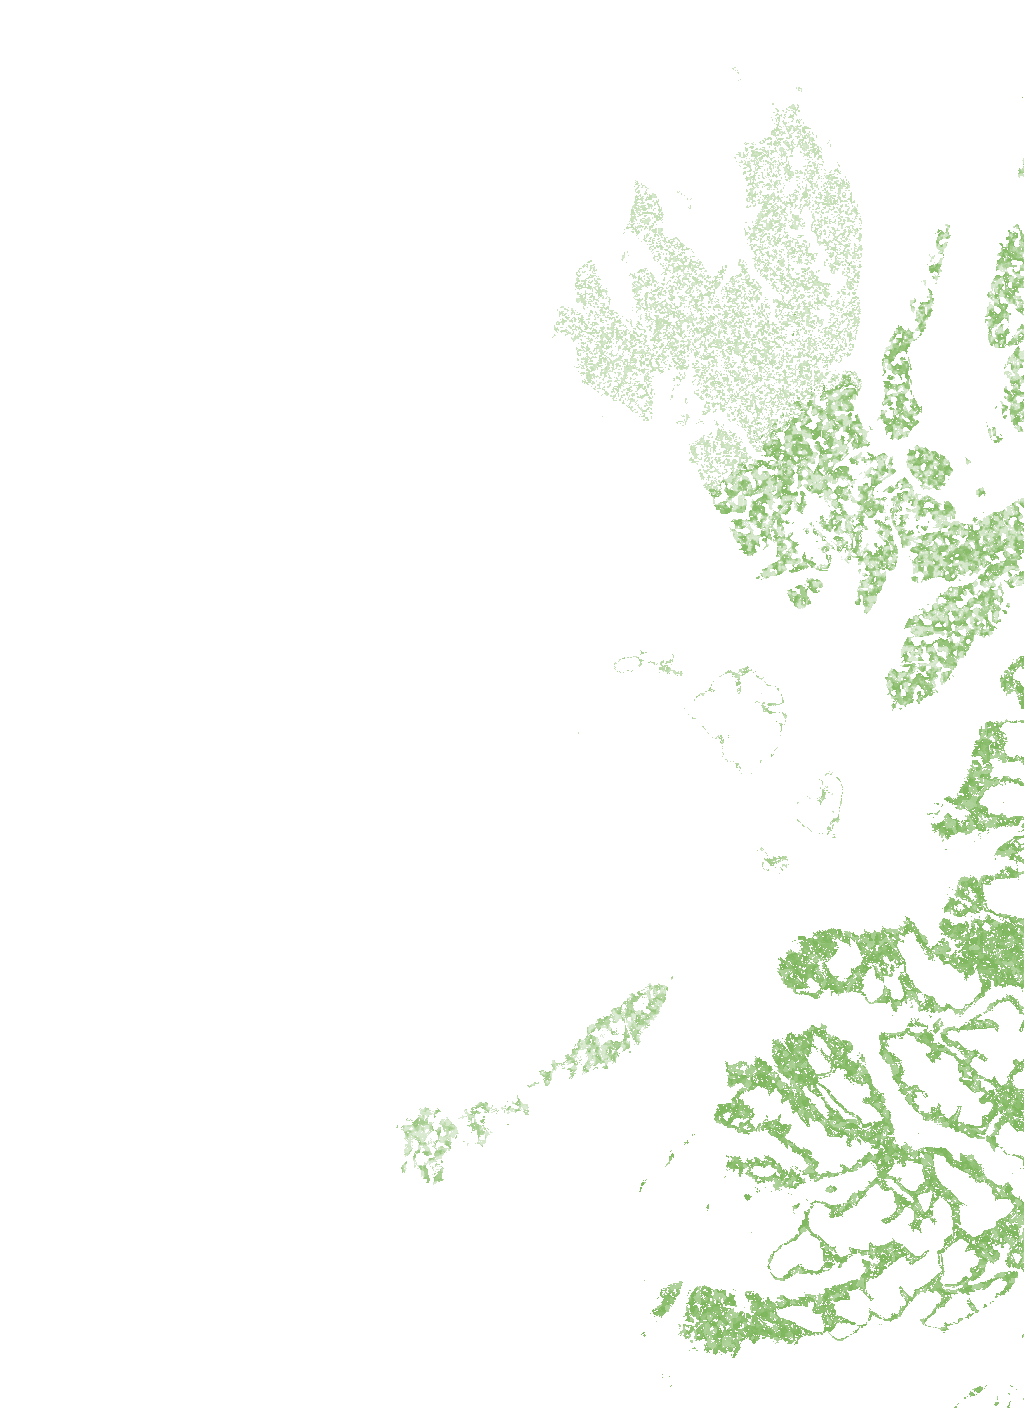
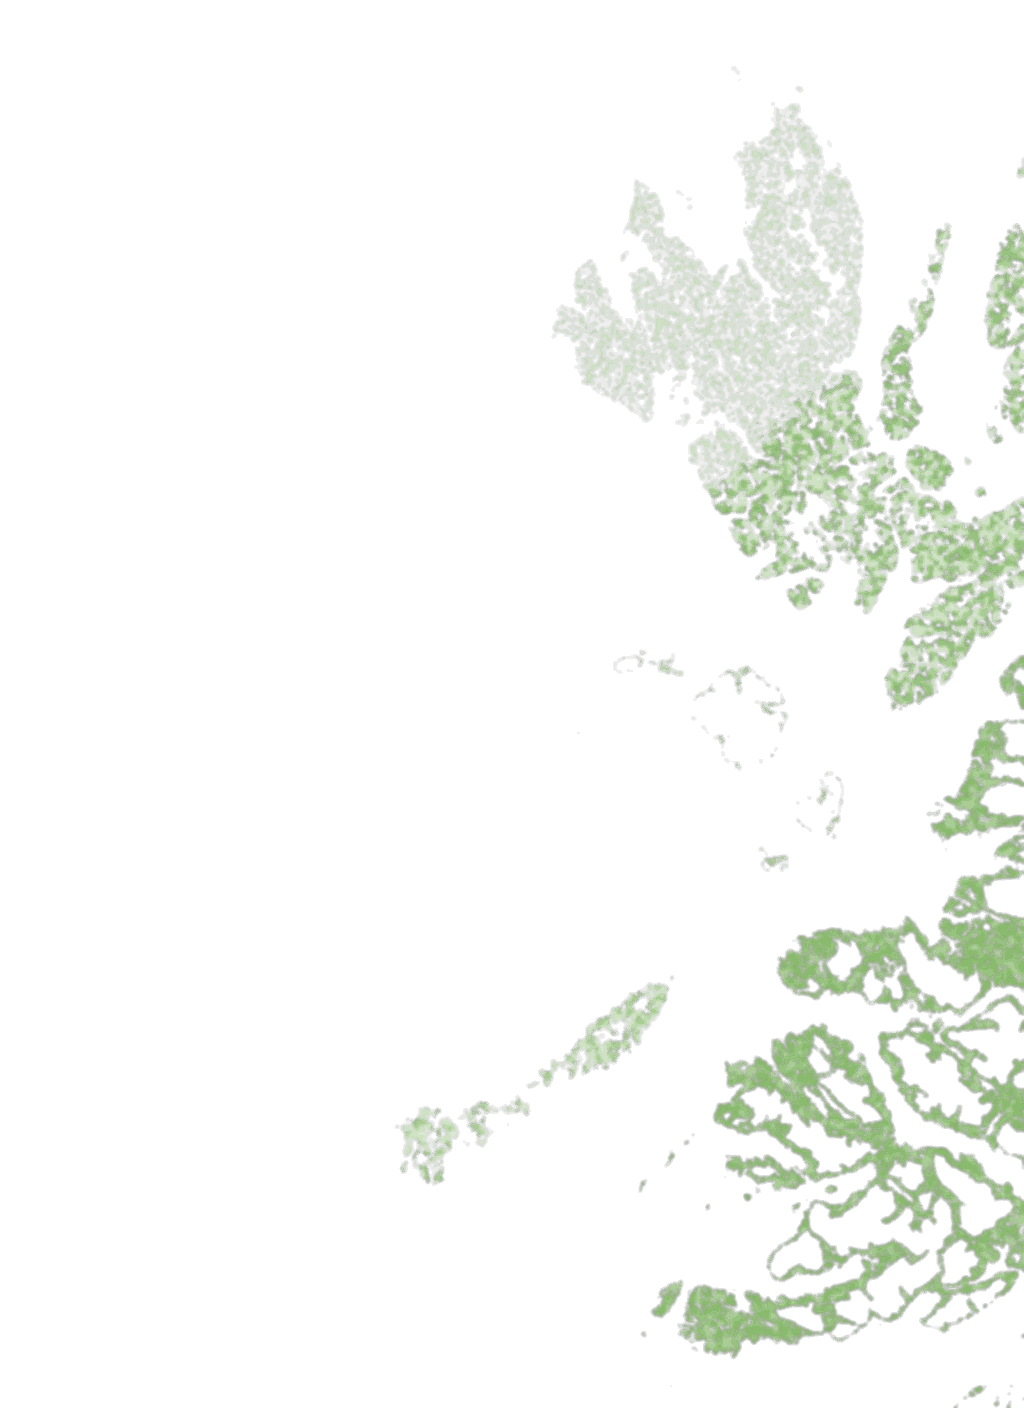
Fix maps and stale styling
- Version-stamp CSS/JS links so browsers never keep an old stylesheet
- Visible world border, smoothed ore/tree/crop layers (no hatching)
- Maps no longer hijack page scrolling; tap-to-explore on phones,
  Ctrl/Cmd+scroll to zoom, full-screen button
- Label spacing and phone layout fixes

diff --git a/assets/maps.js b/assets/maps.js
@@ -41,6 +41,7 @@
     ardcarran: ["coal", "lapis", "emerald", "potato"],
     hell: ["lava", "danger"]
   };
+  var NUDGE = { 6: [26, 14], 8: [-18, -14] };
   var LAND_NAMES = { outer: "Outer Isles", north: "Northlands", spider: "Spiderholme Isles", bread: "Breadbasket", rain: "Rainlands", hell: "The Burning Isle" };
 
   var metaPromise = fetch("maps/maps.json").then(function (r) { return r.json(); });
@@ -96,7 +97,8 @@
 
     meta.labels.forEach(function (lab) {
       var g = el("g", { class: "map-marker" }, svg);
-      var inner = el("g", {}, g);
+      var nd = NUDGE[lab.id] || [0, 0];
+      var inner = el("g", { transform: "translate(" + nd[0] + " " + nd[1] + ")" }, g);
       var name = lab.name;
       var landKey = lab.id === 14 ? "ardcarran" : lab.land;
       var t = el("text", { class: "map-label" + (lab.land === "hell" ? " hell" : ""), x: 0, y: 0, "text-anchor": "middle" }, inner);
@@ -121,8 +123,39 @@
     var ctl = h("div", "map-ctl", view);
     var zin = h("button", "", ctl, "+"); zin.setAttribute("aria-label", "Zoom in");
     var zout = h("button", "", ctl, "−"); zout.setAttribute("aria-label", "Zoom out");
-    var zfit = h("button", "", ctl, "⤢"); zfit.setAttribute("aria-label", "Fit map"); zfit.title = "Fit";
-    var coords = h("div", "map-coords", view, "Drag to pan · scroll or pinch to zoom");
+    var zfit = h("button", "", ctl, "◎"); zfit.setAttribute("aria-label", "Show whole map"); zfit.title = "Show whole map";
+    var zfull = h("button", "", ctl, "⛶"); zfull.setAttribute("aria-label", "Full screen"); zfull.title = "Full screen";
+    var coords = h("div", "map-coords", view, "Drag to move · + and − to zoom");
+    var hint = h("div", "map-hint", view, "");
+    var gate = h("button", "map-gate", view, "Tap to explore the map");
+    var touchy = matchMedia("(pointer: coarse)").matches;
+    var active = !touchy;
+    function setActive(on) {
+      active = on;
+      view.classList.toggle("active", on);
+      gate.hidden = on || !touchy;
+    }
+    setActive(active);
+    gate.addEventListener("click", function () { setActive(true); });
+    var hintTimer;
+    function showHint(t) {
+      hint.textContent = t;
+      hint.classList.add("on");
+      clearTimeout(hintTimer);
+      hintTimer = setTimeout(function () { hint.classList.remove("on"); }, 1400);
+    }
+    function toggleFull(on) {
+      wrap.classList.toggle("map-full", on);
+      document.body.classList.toggle("map-open", on);
+      zfull.textContent = on ? "✕" : "⛶";
+      zfull.title = on ? "Close full screen" : "Full screen";
+      if (on) setActive(true); else if (touchy) setActive(false);
+      setTimeout(fit, 30);
+    }
+    zfull.onclick = function () { toggleFull(!wrap.classList.contains("map-full")); };
+    document.addEventListener("keydown", function (e) {
+      if (e.key === "Escape" && wrap.classList.contains("map-full")) toggleFull(false);
+    });
 
     // Legend / layer panel
     if (!thematic) {
@@ -177,7 +210,7 @@
     }
     function apply() {
       stage.style.transform = "translate(" + tx + "px," + ty + "px) scale(" + s + ")";
-      var k = 1 / s;
+      var k = Math.max(0.62, Math.min(1, view.clientWidth / 820)) / s;
       markers.forEach(function (m) {
         m.g.setAttribute("transform", "translate(" + m.x + " " + m.y + ") scale(" + k + ")");
       });
@@ -196,6 +229,11 @@
     zfit.onclick = fit;
 
     view.addEventListener("wheel", function (e) {
+      var full = wrap.classList.contains("map-full");
+      if (!full && !e.ctrlKey && !e.metaKey) {
+        showHint("Hold Ctrl (or ⌘) and scroll to zoom, or use + and −");
+        return;
+      }
       e.preventDefault();
       var r = view.getBoundingClientRect();
       zoomAt(Math.exp(-e.deltaY * 0.0022), e.clientX - r.left, e.clientY - r.top);
@@ -203,7 +241,8 @@
 
     var pts = {}, last = null;
     view.addEventListener("pointerdown", function (e) {
-      if (e.target.closest(".map-ctl")) return;
+      if (e.target.closest(".map-ctl, .map-gate")) return;
+      if (e.pointerType !== "mouse" && !active) return;
       view.setPointerCapture(e.pointerId);
       pts[e.pointerId] = [e.clientX, e.clientY];
       last = null;

diff --git a/assets/style.css b/assets/style.css
@@ -237,3 +237,27 @@ a.card:hover { text-decoration: none; border-color: var(--line); background: #ea
   .map-legend, .map-layers { margin: 0 -16px; border-left: 0; border-right: 0; }
   .lg-row b { width: 100%; }
 }
+
+/* map fixes: visible world edge, gate, hint, full screen */
+.map-view { background: #e4e2dc repeating-linear-gradient(45deg, transparent 0 10px, rgba(0,0,0,.035) 10px 20px); touch-action: pan-y; }
+.map-view.active { touch-action: none; }
+.map-stage { box-shadow: 0 0 0 1px #54595d, 0 0 0 4px rgba(84,89,93,.18); }
+.map-gate {
+  position: absolute; left: 50%; bottom: 44px; transform: translateX(-50%); z-index: 3;
+  font: 600 14px var(--sans); color: #fff; background: rgba(32,33,34,.82); border: 0; border-radius: 18px; padding: 9px 16px;
+}
+.map-gate[hidden] { display: none; }
+.map-hint {
+  position: absolute; left: 50%; top: 50%; transform: translate(-50%, -50%); z-index: 3; pointer-events: none;
+  font: 600 14px var(--sans); color: #fff; background: rgba(32,33,34,.8); padding: 10px 16px; border-radius: 4px;
+  opacity: 0; transition: opacity .2s; text-align: center; max-width: 80%;
+}
+.map-hint.on { opacity: 1; }
+.map-wrap.map-full { position: fixed; inset: 0; z-index: 100; background: #fff; display: flex; flex-direction: column; }
+.map-wrap.map-full .map-view { flex: 1; height: auto !important; margin: 0; border: 0; }
+.map-wrap.map-full .map-legend, .map-wrap.map-full .map-layers { margin: 0; max-height: 34vh; overflow: auto; border-left: 0; border-right: 0; }
+body.map-open { overflow: hidden; }
+@media (max-width: 860px) {
+  .mp-box .map-view, .mp-box .map-legend { margin: 0; border-left: 1px solid var(--line); border-right: 1px solid var(--line); }
+  .mp-box > .map { padding: 0; }
+}

diff --git a/gravity.html b/gravity.html
@@ -6,7 +6,7 @@
 <title>Gravity &amp; building · Settlers III Wiki</title>
 <meta name="description" content="Anything you build has to hold itself up. Timber carries loads a long way, stone barely overhangs at all, and a badly planned roof comes down.">
 <link rel="icon" href="assets/icon.svg" type="image/svg+xml">
-<link rel="stylesheet" href="assets/style.css">
+<link rel="stylesheet" href="assets/style.css?v=7b34dfeeec">
 </head>
 <body class="page-gravity">
 <a class="skip" href="#main">Skip to content</a>
@@ -130,7 +130,7 @@
     </footer>
   </main>
 </div>
-<script src="assets/wiki.js"></script>
-<script src="assets/maps.js"></script>
+<script src="assets/wiki.js?v=984c0c9cb3"></script>
+<script src="assets/maps.js?v=b07ed30ebc"></script>
 </body>
 </html>

diff --git a/living-world.html b/living-world.html
@@ -6,7 +6,7 @@
 <title>The living world · Settlers III Wiki</title>
 <meta name="description" content="Paths wear into the ground where people walk, stone gathers moss, woods reseed themselves and abandoned buildings grow cobwebs.">
 <link rel="icon" href="assets/icon.svg" type="image/svg+xml">
-<link rel="stylesheet" href="assets/style.css">
+<link rel="stylesheet" href="assets/style.css?v=7b34dfeeec">
 </head>
 <body class="page-living-world">
 <a class="skip" href="#main">Skip to content</a>
@@ -106,7 +106,7 @@
     </footer>
   </main>
 </div>
-<script src="assets/wiki.js"></script>
-<script src="assets/maps.js"></script>
+<script src="assets/wiki.js?v=984c0c9cb3"></script>
+<script src="assets/maps.js?v=b07ed30ebc"></script>
 </body>
 </html>

diff --git a/weather.html b/weather.html
@@ -6,7 +6,7 @@
 <title>Weather &amp; climate · Settlers III Wiki</title>
 <meta name="description" content="It&#x27;s the Atlantic: it rains about half the time, in long wet spells and brighter ones, and it usually clears for sunset.">
 <link rel="icon" href="assets/icon.svg" type="image/svg+xml">
-<link rel="stylesheet" href="assets/style.css">
+<link rel="stylesheet" href="assets/style.css?v=7b34dfeeec">
 </head>
 <body class="page-weather">
 <a class="skip" href="#main">Skip to content</a>
@@ -100,7 +100,7 @@
     </footer>
   </main>
 </div>
-<script src="assets/wiki.js"></script>
-<script src="assets/maps.js"></script>
+<script src="assets/wiki.js?v=984c0c9cb3"></script>
+<script src="assets/maps.js?v=b07ed30ebc"></script>
 </body>
 </html>

diff --git a/wildlife.html b/wildlife.html
@@ -6,7 +6,7 @@
 <title>Wildlife · Settlers III Wiki</title>
 <meta name="description" content="Each region has its own designed wildlife, from red deer and wolf packs to whales, mosquitoes and the spirits of the high hills.">
 <link rel="icon" href="assets/icon.svg" type="image/svg+xml">
-<link rel="stylesheet" href="assets/style.css">
+<link rel="stylesheet" href="assets/style.css?v=7b34dfeeec">
 </head>
 <body class="page-wildlife">
 <a class="skip" href="#main">Skip to content</a>
@@ -154,7 +154,7 @@
     </footer>
   </main>
 </div>
-<script src="assets/wiki.js"></script>
-<script src="assets/maps.js"></script>
+<script src="assets/wiki.js?v=984c0c9cb3"></script>
+<script src="assets/maps.js?v=b07ed30ebc"></script>
 </body>
 </html>

diff --git a/weight.html b/weight.html
@@ -6,7 +6,7 @@
 <title>Weight &amp; encumbrance · Settlers III Wiki</title>
 <meta name="description" content="Everything you carry has weight. Carry too much and you slow down; wear heavy armour in deep water and you sink.">
 <link rel="icon" href="assets/icon.svg" type="image/svg+xml">
-<link rel="stylesheet" href="assets/style.css">
+<link rel="stylesheet" href="assets/style.css?v=7b34dfeeec">
 </head>
 <body class="page-weight">
 <a class="skip" href="#main">Skip to content</a>
@@ -147,7 +147,7 @@
     </footer>
   </main>
 </div>
-<script src="assets/wiki.js"></script>
-<script src="assets/maps.js"></script>
+<script src="assets/wiki.js?v=984c0c9cb3"></script>
+<script src="assets/maps.js?v=b07ed30ebc"></script>
 </body>
 </html>

diff --git a/lands.html b/lands.html
@@ -6,7 +6,7 @@
 <title>Lands &amp; regions · Settlers III Wiki</title>
 <meta name="description" content="Five lands, fifteen regions. Each land has its own climate, ores, crops and animals, and none of them has everything.">
 <link rel="icon" href="assets/icon.svg" type="image/svg+xml">
-<link rel="stylesheet" href="assets/style.css">
+<link rel="stylesheet" href="assets/style.css?v=7b34dfeeec">
 </head>
 <body class="page-lands">
 <a class="skip" href="#main">Skip to content</a>
@@ -172,7 +172,7 @@
     </footer>
   </main>
 </div>
-<script src="assets/wiki.js"></script>
-<script src="assets/maps.js"></script>
+<script src="assets/wiki.js?v=984c0c9cb3"></script>
+<script src="assets/maps.js?v=b07ed30ebc"></script>
 </body>
 </html>

diff --git a/mining-map.html b/mining-map.html
@@ -6,7 +6,7 @@
 <title>Mining map · Settlers III Wiki</title>
 <meta name="description" content="Where every ore and cave mineral in the Caeldun Isles is found, drawn from the world generator&#x27;s own ore rules.">
 <link rel="icon" href="assets/icon.svg" type="image/svg+xml">
-<link rel="stylesheet" href="assets/style.css">
+<link rel="stylesheet" href="assets/style.css?v=7b34dfeeec">
 </head>
 <body class="page-mining-map">
 <a class="skip" href="#main">Skip to content</a>
@@ -109,7 +109,7 @@
     </footer>
   </main>
 </div>
-<script src="assets/wiki.js"></script>
-<script src="assets/maps.js"></script>
+<script src="assets/wiki.js?v=984c0c9cb3"></script>
+<script src="assets/maps.js?v=b07ed30ebc"></script>
 </body>
 </html>

diff --git a/ships.html b/ships.html
@@ -6,7 +6,7 @@
 <title>Ships &amp; sailing · Settlers III Wiki</title>
 <meta name="description" content="Build a ship out of ordinary blocks, fill it with cargo and animals, and sail it smoothly anywhere in the world.">
 <link rel="icon" href="assets/icon.svg" type="image/svg+xml">
-<link rel="stylesheet" href="assets/style.css">
+<link rel="stylesheet" href="assets/style.css?v=7b34dfeeec">
 </head>
 <body class="page-ships">
 <a class="skip" href="#main">Skip to content</a>
@@ -131,7 +131,7 @@
     </footer>
   </main>
 </div>
-<script src="assets/wiki.js"></script>
-<script src="assets/maps.js"></script>
+<script src="assets/wiki.js?v=984c0c9cb3"></script>
+<script src="assets/maps.js?v=b07ed30ebc"></script>
 </body>
 </html>

diff --git a/open-ocean.html b/open-ocean.html
@@ -6,7 +6,7 @@
 <title>The open ocean · Settlers III Wiki</title>
 <meta name="description" content="Past the shelf, the sea drops into the abyss. Swimmers and small boats don&#x27;t survive out there. Ships do.">
 <link rel="icon" href="assets/icon.svg" type="image/svg+xml">
-<link rel="stylesheet" href="assets/style.css">
+<link rel="stylesheet" href="assets/style.css?v=7b34dfeeec">
 </head>
 <body class="page-open-ocean">
 <a class="skip" href="#main">Skip to content</a>
@@ -103,7 +103,7 @@
     </footer>
   </main>
 </div>
-<script src="assets/wiki.js"></script>
-<script src="assets/maps.js"></script>
+<script src="assets/wiki.js?v=984c0c9cb3"></script>
+<script src="assets/maps.js?v=b07ed30ebc"></script>
 </body>
 </html>

diff --git a/caeldun-isles.html b/caeldun-isles.html
@@ -6,7 +6,7 @@
 <title>The Caeldun Isles · Settlers III Wiki</title>
 <meta name="description" content="A huge archipelago of rain-washed islands, sea lochs and mountains, shaped from real survey data.">
 <link rel="icon" href="assets/icon.svg" type="image/svg+xml">
-<link rel="stylesheet" href="assets/style.css">
+<link rel="stylesheet" href="assets/style.css?v=7b34dfeeec">
 </head>
 <body class="page-caeldun-isles">
 <a class="skip" href="#main">Skip to content</a>
@@ -112,7 +112,7 @@
     </footer>
   </main>
 </div>
-<script src="assets/wiki.js"></script>
-<script src="assets/maps.js"></script>
+<script src="assets/wiki.js?v=984c0c9cb3"></script>
+<script src="assets/maps.js?v=b07ed30ebc"></script>
 </body>
 </html>
